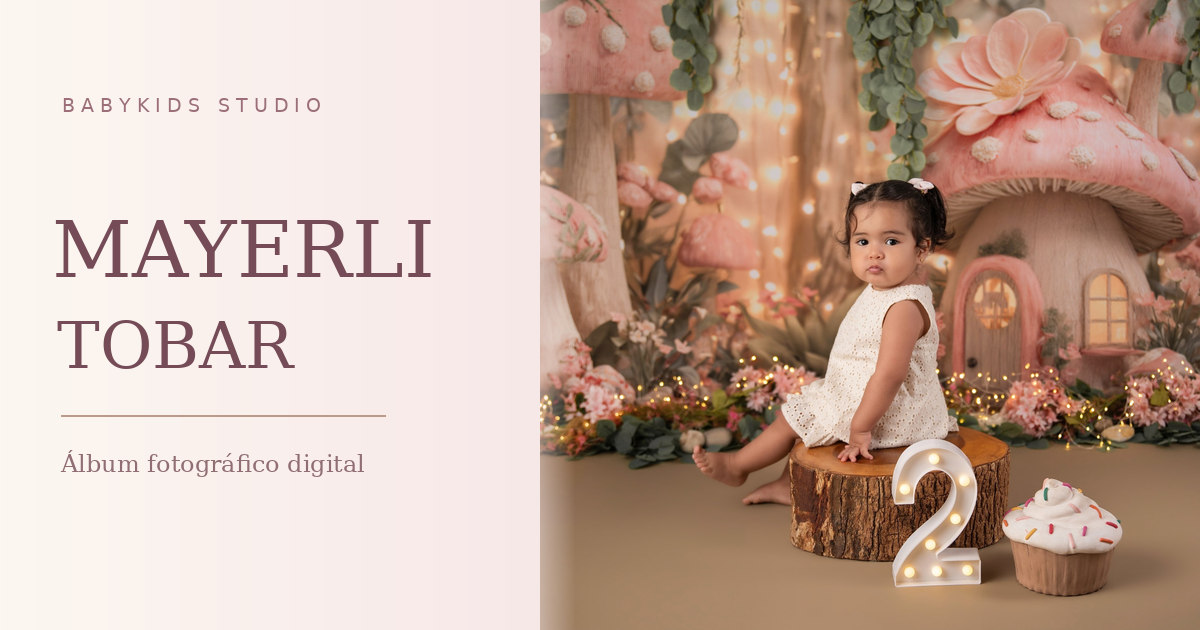
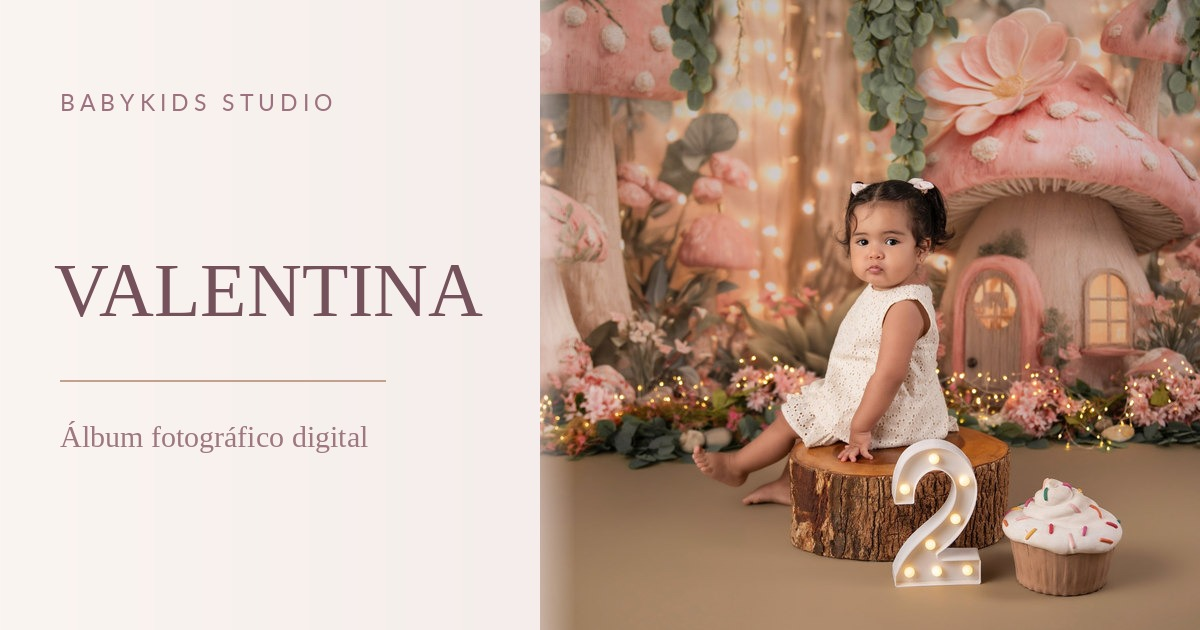
Personalizar album digital Valentina

Changed region(s): [[0.0308, 0.3317, 0.4008, 0.754], [0.0308, 0.1508, 0.2775, 0.181]]

diff --git a/index.html b/index.html
@@ -4,17 +4,17 @@
   <meta charset="utf-8">
   <meta name="viewport" content="width=device-width, initial-scale=1, viewport-fit=cover">
   <meta name="theme-color" content="#f6eeeb">
-  <title>Mayerli Tobar | Fotolibro premium · BabyKids Studio</title>
+  <title>Valentina | Fotolibro premium · BabyKids Studio</title>
   <meta name="description" content="Un álbum fotográfico digital de BabyKids Studio.">
   <meta property="og:type" content="website">
   <meta property="og:site_name" content="BabyKids Studio">
-  <meta property="og:title" content="Mayerli Tobar | Álbum de recuerdos">
+  <meta property="og:title" content="Valentina | Álbum de recuerdos">
   <meta property="og:description" content="Un álbum fotográfico digital de BabyKids Studio.">
-  <meta property="og:image" content="https://babykidsstudioec.github.io/Mayerli_Tobar/assets/img/preview-whatsapp.jpg">
+  <meta property="og:image" content="https://babykidsstudioec.github.io/Valentina/assets/img/preview-whatsapp.jpg">
   <meta property="og:image:type" content="image/jpeg">
   <meta property="og:image:width" content="1200">
   <meta property="og:image:height" content="630">
-  <meta property="og:url" content="https://babykidsstudioec.github.io/Mayerli_Tobar/">
+  <meta property="og:url" content="https://babykidsstudioec.github.io/Valentina/">
   <meta name="twitter:card" content="summary_large_image">
   <link rel="icon" href="favicon.svg" type="image/svg+xml">
   <link rel="preconnect" href="https://fonts.googleapis.com">
@@ -59,7 +59,7 @@
     <main class="content">
       <div class="intro">
         <div class="eyebrow"><span aria-hidden="true">✧</span> UNA HISTORIA PARA ATESORAR <span aria-hidden="true">✧</span></div>
-        <h1>Mayerli <em>Tobar</em></h1>
+        <h1><em>Valentina</em></h1>
         <p>Hay momentos que merecen vivirse una y otra vez.</p>
       </div>
 
@@ -68,7 +68,7 @@
         <div class="ambient ambient-two" aria-hidden="true"></div>
         <div class="display-platform" aria-hidden="true"></div>
         <div class="book-frame" id="bookFrame">
-          <div id="book" aria-label="Álbum de Mayerli Tobar. Arrastra una esquina para pasar las hojas"></div>
+          <div id="book" aria-label="Álbum de Valentina. Arrastra una esquina para pasar las hojas"></div>
         </div>
         <p class="showcase-tip" id="tip">TOCA LA PORTADA PARA ABRIR EL ÁLBUM</p>
       </section>

diff --git a/app.js b/app.js
@@ -4,7 +4,7 @@
 (() => {
   'use strict';
   const ALBUM = {
-    nombre: 'Mayerli Tobar',
+    nombre: 'Valentina',
     portada: 'assets/img/portada.webp',
     fotos: Array.from({length: 10}, (_, i) =>
       `assets/img/foto-${String(i + 1).padStart(2, '0')}.webp`)
@@ -56,16 +56,16 @@
     if (type !== 'photo') page.dataset.density = 'hard';
     if (type === 'cover') {
       page.innerHTML = `<div class="cover-art">
-        <img class="cover-image" src="${image}" alt="Mayerli, fotografía completa de portada" draggable="false" fetchpriority="high">
+        <img class="cover-image" src="${image}" alt="Valentina, fotografía completa de portada" draggable="false" fetchpriority="high">
         <span class="cover-outline" aria-hidden="true"></span>
-        <div class="cover-banner"><span>BABYKIDS STUDIO</span><strong>MAYERLI TOBAR</strong><small>ÁLBUM FOTOGRÁFICO DIGITAL</small></div>
+        <div class="cover-banner"><span>BABYKIDS STUDIO</span><strong>Valentina</strong><small>ÁLBUM FOTOGRÁFICO DIGITAL</small></div>
       </div>`;
     } else if (type === 'back') {
-      page.innerHTML = `<div class="back-art"><span class="back-mark">B✧K</span><strong>Mayerli Tobar</strong><span>UNA CREACIÓN DE BABYKIDS STUDIO</span></div>`;
+      page.innerHTML = `<div class="back-art"><span class="back-mark">B✧K</span><strong>Valentina Tobar</strong><span>UNA CREACIÓN DE BABYKIDS STUDIO</span></div>`;
     } else {
       page.innerHTML = `<div class="photo-art">
         <img class="photo-blur" src="${image}" alt="" aria-hidden="true" loading="lazy">
-        <img class="photo-main" src="${image}" alt="Fotografía ${i} de Mayerli Tobar" loading="eager" draggable="false">
+        <img class="photo-main" src="${image}" alt="Fotografía ${i} de Valentina Tobar" loading="eager" draggable="false">
         <span class="photo-outline" aria-hidden="true"></span>
       </div>`;
     }
@@ -211,7 +211,7 @@
   requestAnimationFrame(centrarLibroCerrado);
   
 /* =========================================
-   BABYKIDS STUDIO - MAYERLI 3D
+   BABYKIDS STUDIO - Valentina 3D
    CENTRADO AUTOMATICO EN PANTALLA COMPLETA
 ========================================= */
 
